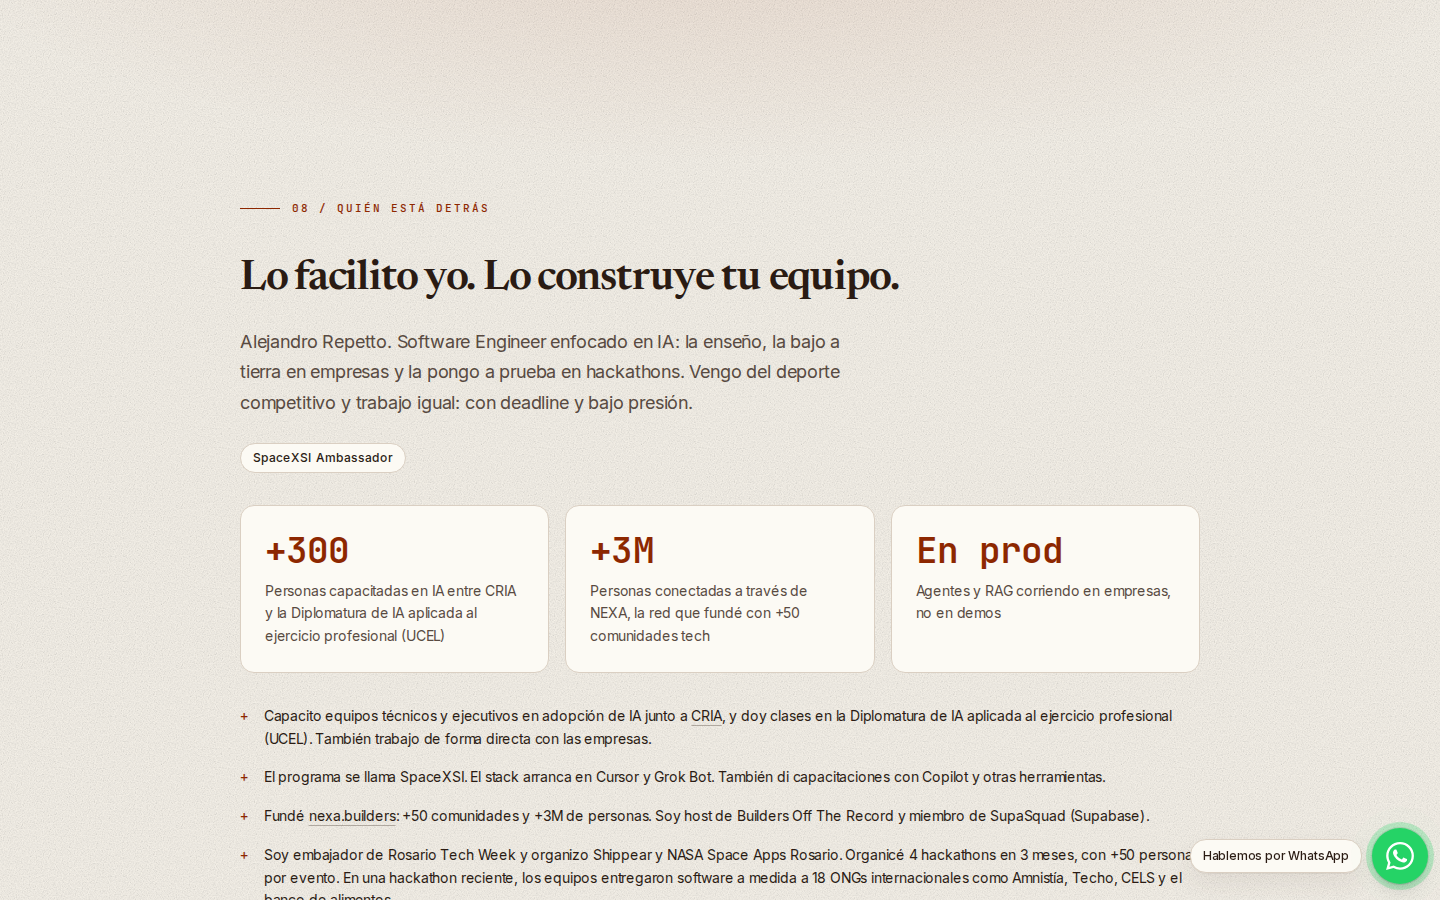
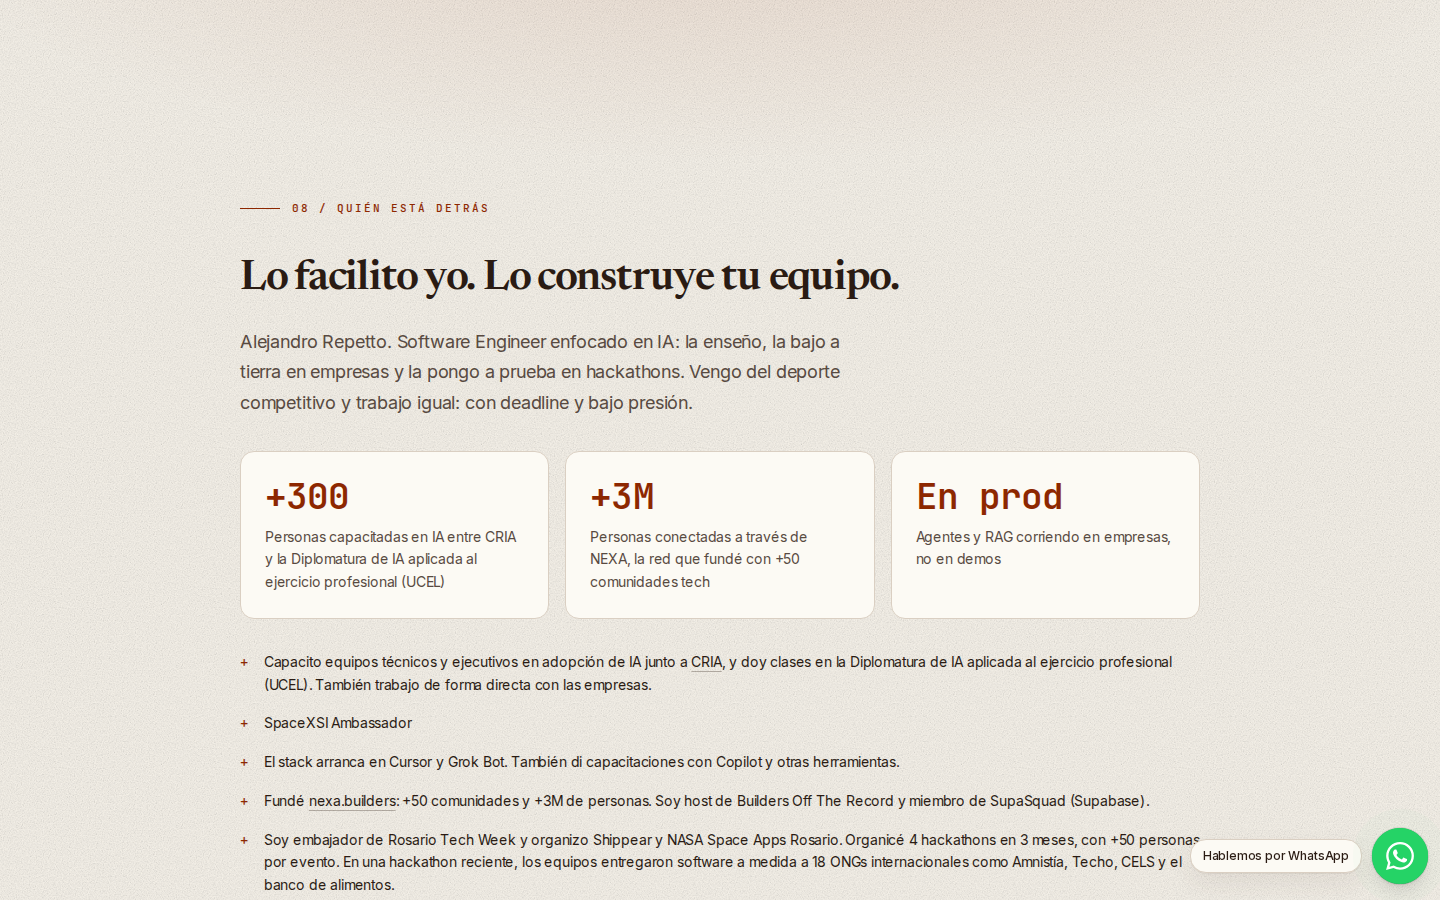
fix: SpaceXSI solo como credencial de texto en about
Saca el badge, el hook de logo y las menciones de stack, capacitaciones
y programa. Queda una línea plana "SpaceXSI Ambassador" en las
credenciales de about. No implica respaldo sobre el sprint.

Changed region(s): [[0.1562, 0.4978, 0.8438, 1.0], [0.9375, 0.9022, 1.0, 0.9956]]

diff --git a/components/sections/about-section.tsx b/components/sections/about-section.tsx
@@ -4,7 +4,6 @@ import { Container } from "@/components/layout/container"
 import { Section } from "@/components/layout/section"
 import { SectionHeader } from "@/components/layout/section-header"
 import { useTranslations, getTranslation } from "@/lib/i18n-context"
-import { SpaceXSIAmbassadorBadge } from "@/components/sprint/spacexsi-ambassador-badge"
 
 export function AboutSection() {
   const [translations] = useTranslations()
@@ -13,13 +12,19 @@ export function AboutSection() {
     <Section id="about" variant="default" spacing="compact">
       <Container maxWidth="4xl">
         <div className="space-y-14">
-          <SectionHeader
-            eyebrow={getTranslation(translations, "about.eyebrow")}
-            title={getTranslation(translations, "about.title")}
-            description={getTranslation(translations, "about.bio.short")}
-          >
-            <SpaceXSIAmbassadorBadge className="mt-6" />
-          </SectionHeader>
+          <div>
+            <SectionHeader
+              className="mb-5 sm:mb-6"
+              eyebrow={getTranslation(translations, "about.eyebrow")}
+              title={getTranslation(translations, "about.title")}
+              description={getTranslation(translations, "about.bio.short")}
+            />
+            <ul className="list-none">
+              <li className="text-sm leading-relaxed text-muted-foreground">
+                {getTranslation(translations, "about.credential")}
+              </li>
+            </ul>
+          </div>
 
           <div className="grid gap-10 md:grid-cols-2 lg:gap-16">
             <div className="space-y-5">

diff --git a/components/sprint/sprint-about.tsx b/components/sprint/sprint-about.tsx
@@ -1,7 +1,11 @@
 import { SprintSection, SprintHeading, SprintProse } from "./sprint-section"
 import { SprintCriaLink, SprintNexaLink } from "./sprint-ext-link"
-import { SpaceXSIAmbassadorBadge } from "./spacexsi-ambassador-badge"
-import { SPRINT_ANCHORS, SPRINT_SECTION_LABELS, TRAINED_PEOPLE_STAT } from "@/lib/sprint/constants"
+import {
+  SPACEXSI_AMBASSADOR_LABEL,
+  SPRINT_ANCHORS,
+  SPRINT_SECTION_LABELS,
+  TRAINED_PEOPLE_STAT,
+} from "@/lib/sprint/constants"
 import { SPRINT_AWARDS } from "@/lib/sprint/proof"
 
 const HIGHLIGHTS = [
@@ -26,9 +30,10 @@ const FACTS = [
     clases en la Diplomatura de IA aplicada al ejercicio profesional (UCEL). También trabajo de
     forma directa con las empresas.
   </>,
+  SPACEXSI_AMBASSADOR_LABEL,
   <>
-    El programa se llama SpaceXSI. El stack arranca en Cursor y Grok Bot. También di capacitaciones
-    con Copilot y otras herramientas.
+    El stack arranca en Cursor y Grok Bot. También di capacitaciones con Copilot y otras
+    herramientas.
   </>,
   <>
     Fundé <SprintNexaLink />: +50 comunidades y +3M de personas. Soy host de Builders Off The Record
@@ -57,7 +62,6 @@ export function SprintAbout() {
           con deadline y bajo presión.
         </p>
       </SprintProse>
-      <SpaceXSIAmbassadorBadge className="mt-6" />
 
       <div className="mt-8 grid gap-4 sm:grid-cols-3">
         {HIGHLIGHTS.map((h, i) => (

diff --git a/lib/sprint/constants.ts b/lib/sprint/constants.ts
@@ -11,16 +11,10 @@ export const LINKEDIN_URL = "https://www.linkedin.com/in/alejandro-repetto"
 export const GITHUB_URL = "https://github.com/Repetto-A"
 
 /**
- * Nombre del programa (antes SpaceXAI). Credencial personal, no un
- * respaldo de SpaceXSI sobre los servicios de Alejandro.
- *
- * Logo: no hay archivo oficial en el repo. Cuando Alejandro lo pase,
- * ponerlo en `public/spacexsi-ambassador.svg` (o .png) y setear
- * `SPACEXSI_LOGO_SRC` a esa ruta. No inventar ni redibujar el logo.
+ * Credencial personal, una línea de texto en about. No es highlight
+ * de stack ni un respaldo de SpaceXSI sobre el sprint. Sin logo.
  */
-export const SPACEXSI_NAME = "SpaceXSI"
 export const SPACEXSI_AMBASSADOR_LABEL = "SpaceXSI Ambassador"
-export const SPACEXSI_LOGO_SRC: string | null = null
 
 /** Copy único del siguiente paso. No mezclar con “diagnóstico” de la semana 1. */
 export const CTA_COPY = {

diff --git a/components/sprint/sprint-how-it-works.tsx b/components/sprint/sprint-how-it-works.tsx
@@ -64,7 +64,7 @@ export function SprintHowItWorks() {
 
         <p className="sprint-measure mt-5 text-sm leading-relaxed text-muted-foreground">
           La empresa elige los módulos. No los vemos todos: arrancamos por lo que le sirve al
-          equipo, según el diagnóstico. El eje es SpaceXSI (Cursor y Grok Bot). También Claude Code,
+          equipo, según el diagnóstico. El stack arranca en Cursor y Grok Bot. También Claude Code,
           Copilot y otras herramientas.
         </p>
 

diff --git a/components/sprint/sprint-curriculum.tsx b/components/sprint/sprint-curriculum.tsx
@@ -14,8 +14,7 @@ export function SprintCurriculum({ modules }: { modules: readonly CurriculumModu
           {modules.length} módulos. La empresa elige.
         </p>
         <p className="mt-1 text-sm leading-relaxed text-muted-foreground">
-          El eje es SpaceXSI: Cursor y Grok Bot. Claude Code también, y Claude Code dedicado a
-          pedido.
+          El eje es Cursor y Grok Bot. Claude Code también, y Claude Code dedicado a pedido.
         </p>
       </div>
 

diff --git a/components/sections/skills-section.tsx b/components/sections/skills-section.tsx
@@ -33,7 +33,6 @@ const skillCategories = [
   {
     titleKey: "skills.categories.frameworks",
     skills: [
-      "SpaceXSI",
       "Cursor",
       "Grok Bot",
       "Claude Code",
